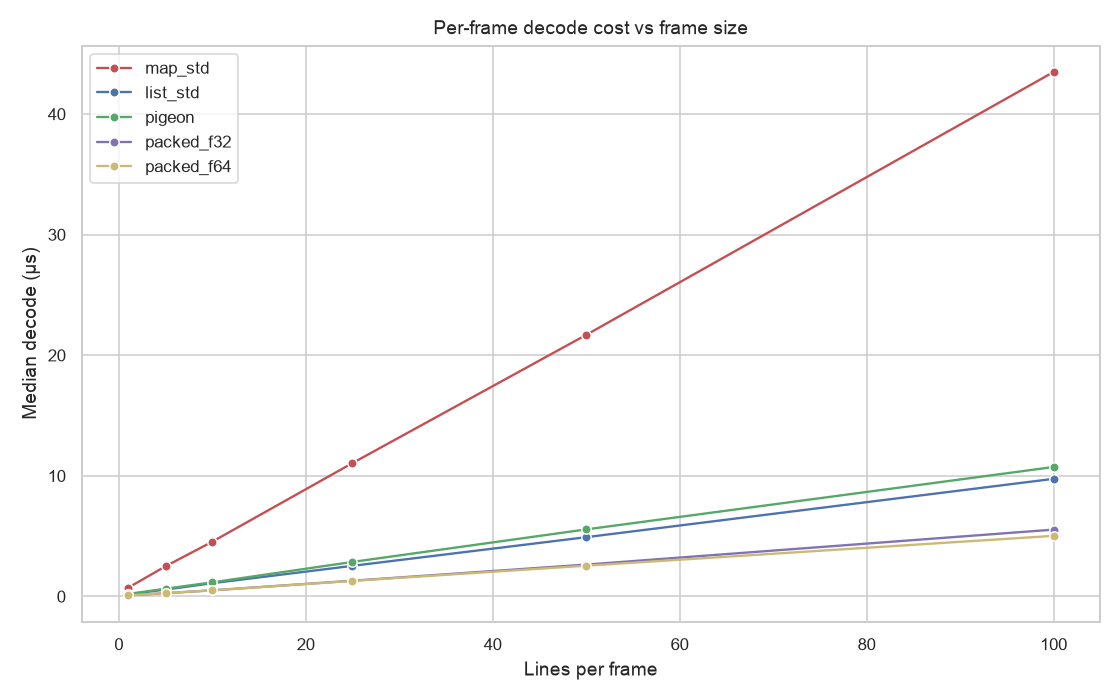
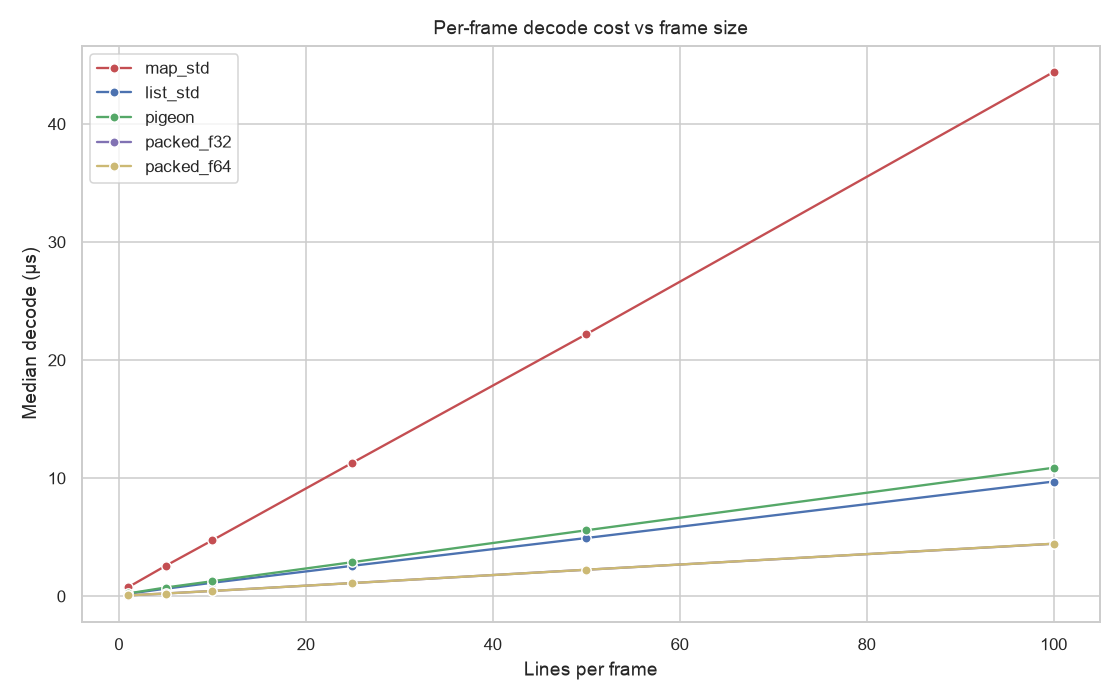
More comprehensive N=30 test

diff --git a/benchmark/reports/SUMMARY.md b/benchmark/reports/SUMMARY.md
@@ -4,32 +4,32 @@ Per-frame **decode** CPU and **wire size** of the recognition-results transport,
 
 > **Scope.** Pure-Dart codec cost only — *not* native encode, real-device frame latency, or ML inference (which dominates end-to-end). These numbers bound the upside of a transport change; they are not an end-to-end speedup.
 
-Captured: SDK `3.12.2` · package `0.0.0` · git `af0885c` · N=1 · 2026-06-19T11:09:50.170716Z · per-machine — your numbers will differ.
+Captured: SDK `3.12.2` · package `0.0.0` · git `4eeb778` · N=30 · 2026-06-19T16:26:30.354491Z · per-machine — your numbers will differ.
 
 ## Realistic profiles
 
 | Profile | Candidate | Decode (µs) | Wire (bytes) | Δ decode | Δ bytes |
 |---|---|--:|--:|--:|--:|
-| sign | `map_std` | 1.66 | 432 | 0% | 0% |
-| sign | `list_std` | 0.36 | 312 | -79% | -28% |
-| sign | `pigeon` | 0.40 | 312 | -76% | -28% |
-| sign | `packed_f32` | 0.15 | 116 | -91% | -73% |
-| sign | `packed_f64` | 0.16 | 184 | -91% | -57% |
-| receipt | `map_std` | 9.30 | 2608 | 0% | 0% |
-| receipt | `list_std` | 2.14 | 2016 | -77% | -23% |
-| receipt | `pigeon` | 3.16 | 2024 | -66% | -22% |
-| receipt | `packed_f32` | 1.13 | 852 | -88% | -67% |
-| receipt | `packed_f64` | 1.08 | 1280 | -88% | -51% |
-| document | `map_std` | 30.64 | 9384 | 0% | 0% |
-| document | `list_std` | 10.99 | 7648 | -64% | -18% |
-| document | `pigeon` | 10.10 | 7704 | -67% | -18% |
-| document | `packed_f32` | 4.36 | 4149 | -86% | -56% |
-| document | `packed_f64` | 4.17 | 5417 | -86% | -42% |
-| dense | `map_std` | 54.51 | 16496 | 0% | 0% |
-| dense | `list_std` | 12.43 | 13136 | -77% | -20% |
-| dense | `pigeon` | 13.61 | 13240 | -75% | -20% |
-| dense | `packed_f32` | 6.60 | 6099 | -88% | -63% |
-| dense | `packed_f64` | 6.59 | 8647 | -88% | -48% |
+| sign | `map_std` | 1.64 | 432 | 0% | 0% |
+| sign | `list_std` | 0.42 | 312 | -74% | -28% |
+| sign | `pigeon` | 0.49 | 312 | -70% | -28% |
+| sign | `packed_f32` | 0.14 | 116 | -92% | -73% |
+| sign | `packed_f64` | 0.14 | 184 | -91% | -57% |
+| receipt | `map_std` | 9.57 | 2608 | 0% | 0% |
+| receipt | `list_std` | 2.21 | 2016 | -77% | -23% |
+| receipt | `pigeon` | 2.44 | 2024 | -75% | -22% |
+| receipt | `packed_f32` | 0.91 | 852 | -91% | -67% |
+| receipt | `packed_f64` | 0.90 | 1280 | -91% | -51% |
+| document | `map_std` | 28.39 | 9384 | 0% | 0% |
+| document | `list_std` | 6.70 | 7648 | -76% | -18% |
+| document | `pigeon` | 7.46 | 7704 | -74% | -18% |
+| document | `packed_f32` | 3.36 | 4149 | -88% | -56% |
+| document | `packed_f64` | 3.36 | 5417 | -88% | -42% |
+| dense | `map_std` | 56.83 | 16496 | 0% | 0% |
+| dense | `list_std` | 12.68 | 13136 | -78% | -20% |
+| dense | `pigeon` | 14.02 | 13240 | -75% | -20% |
+| dense | `packed_f32` | 6.00 | 6099 | -89% | -63% |
+| dense | `packed_f64` | 6.03 | 8647 | -89% | -48% |
 
 ## Charts
 